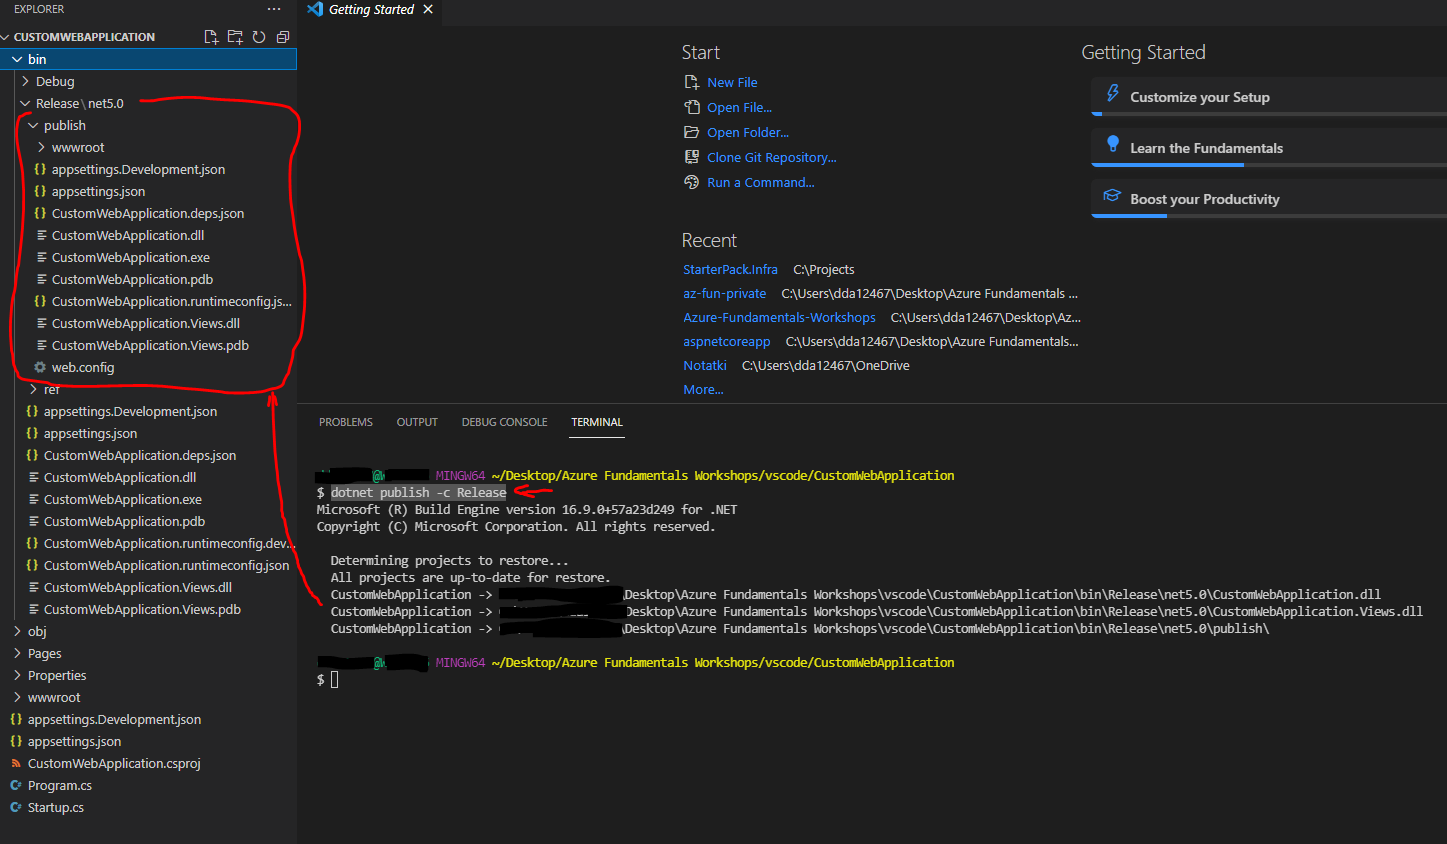
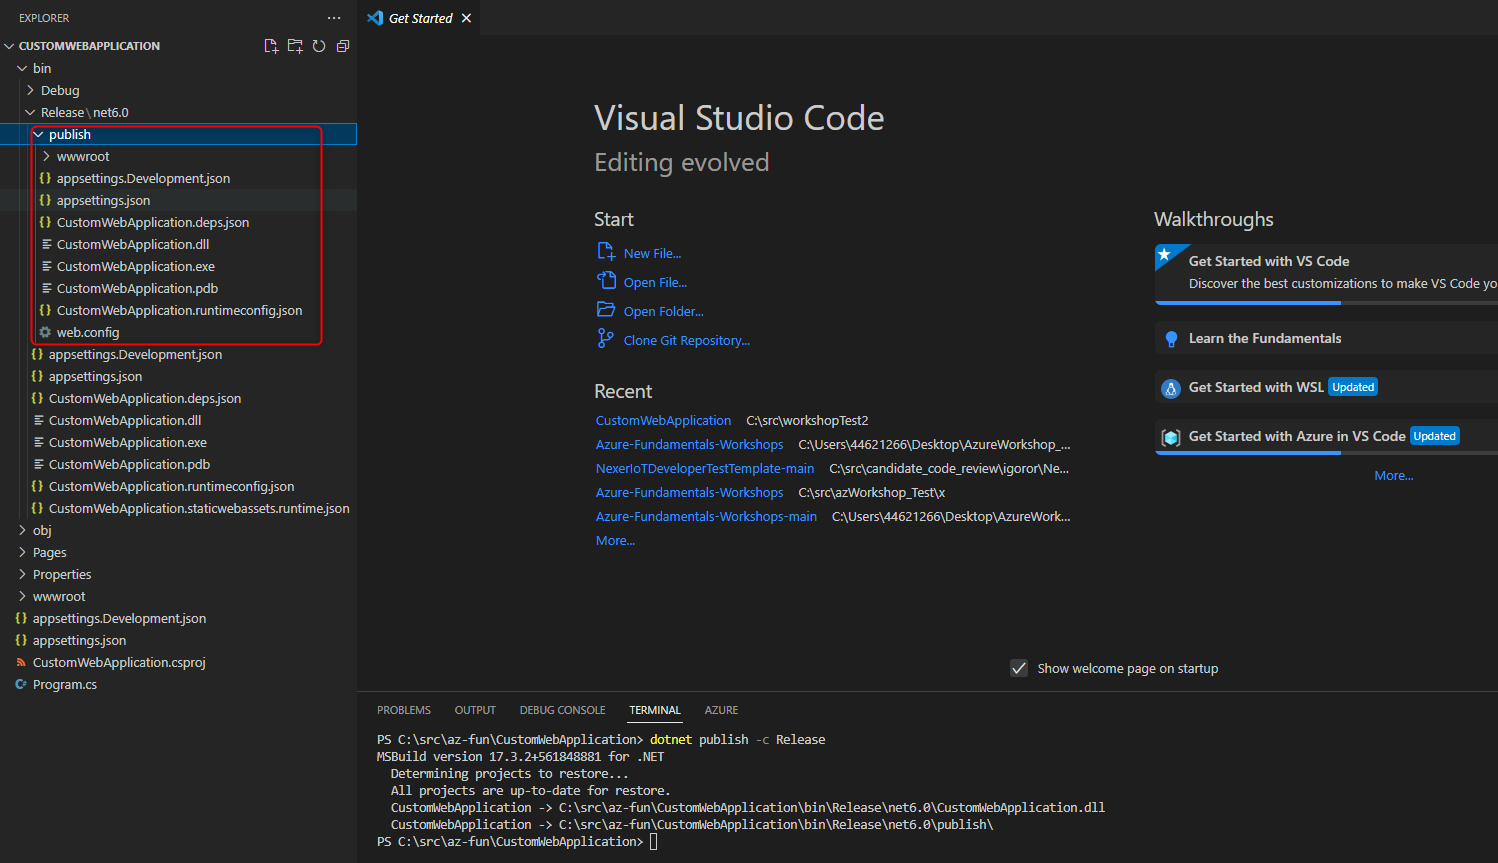
app service - task 3

diff --git a/Instructions/02-App-services/1-Deploy-custom-web-app-to-app-services-in-vs-code.md b/Instructions/02-App-services/1-Deploy-custom-web-app-to-app-services-in-vs-code.md
@@ -80,7 +80,7 @@ In this task you will create deployment files that will be needed in order to de
 
     ![dotnet-publish-to-folder](/assets/dotnet-publish-to-folder.PNG)
 
-2. Navigate to your  `bin/Release/net5.0/publish` folder and compress to zip folder all the files. You can name it like you wish, for example `deploymentfiles`
+2. Navigate to your  `bin/Release/net6.0/publish` folder and compress to zip folder all the files. You can name it like you wish, for example `deploymentfiles`
 
     ![dotnet-publish-zip-your-files.PNG](/assets/dotnet-publish-zip-your-files.PNG)
 
